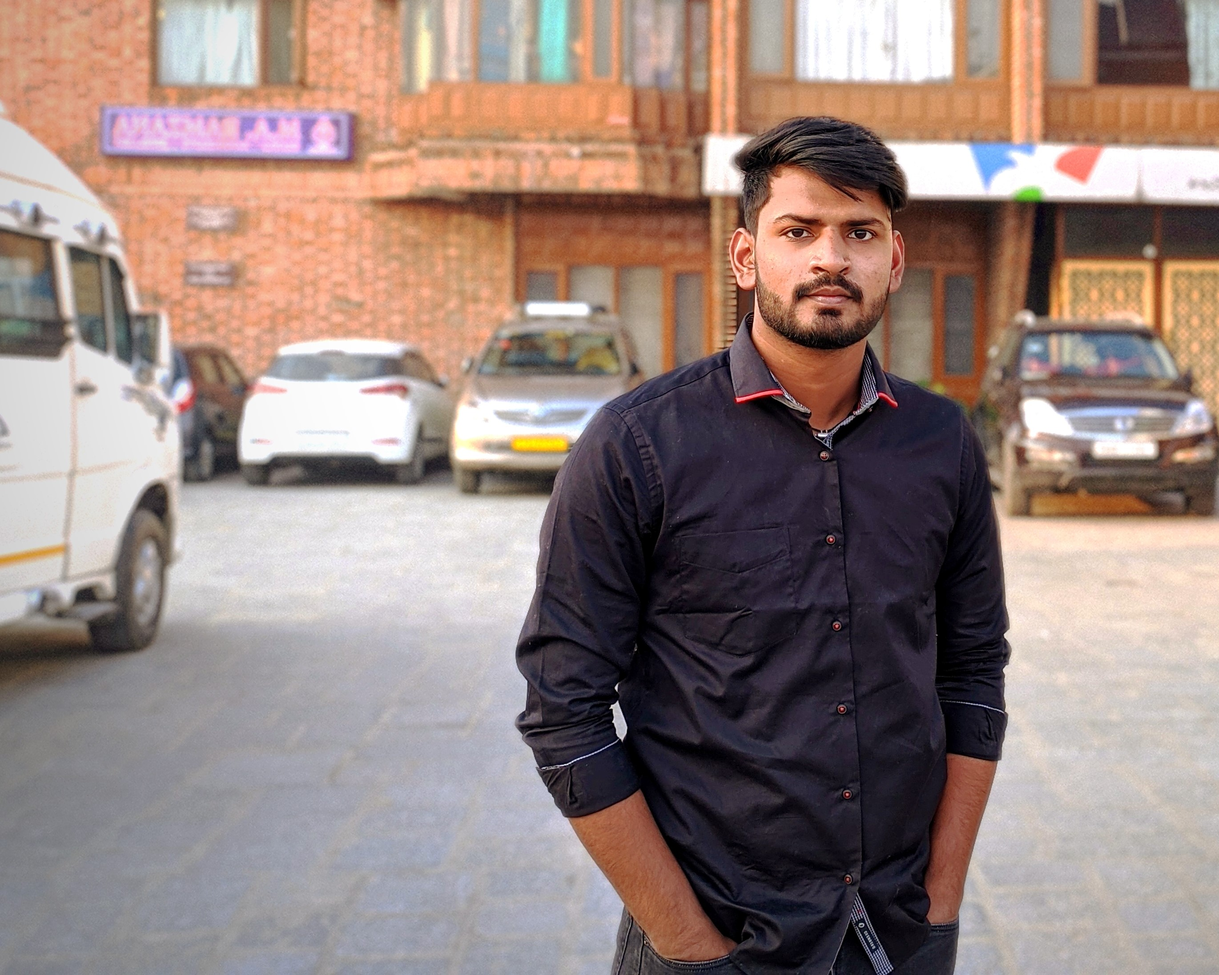
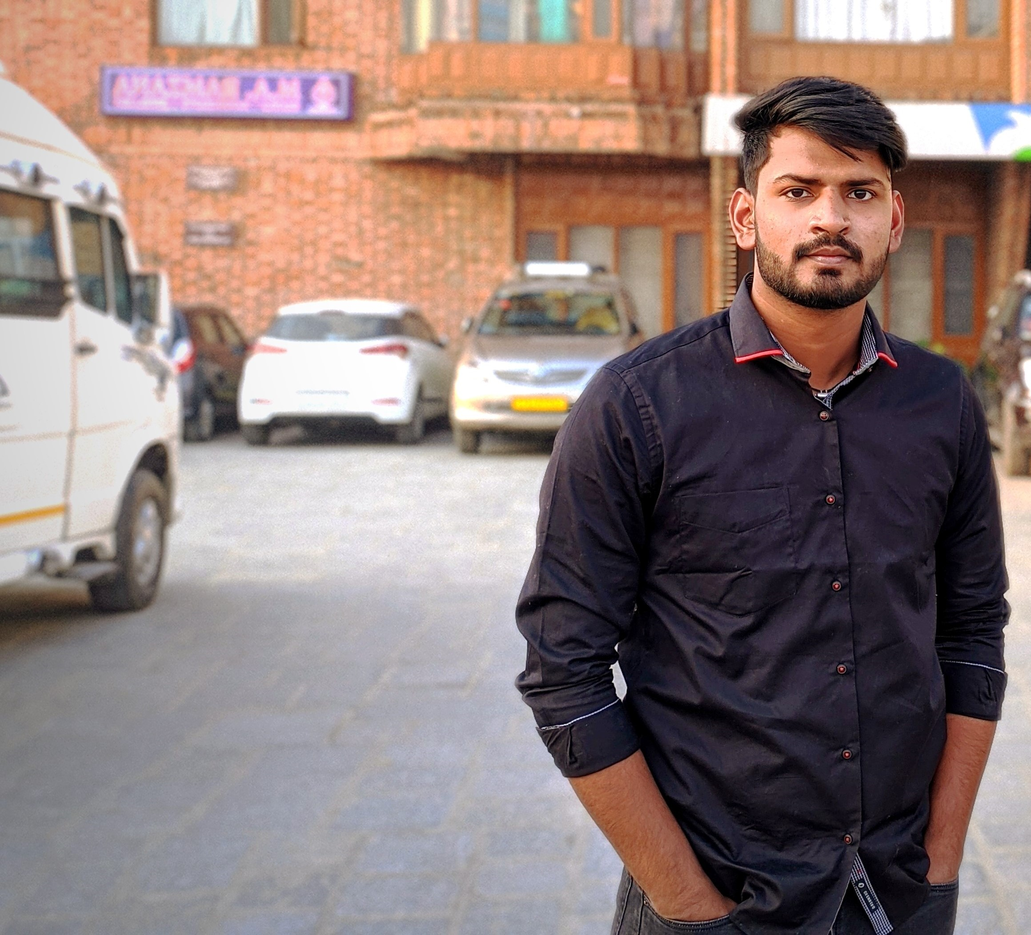
u

diff --git a/assets/css/style.css b/assets/css/style.css
@@ -242,7 +242,7 @@ margin: 10px auto;
 #hero {
   width: 100%;
   height: 100vh;
-  background-image: url("../img/IMG_20231030_003636.jpg") top centre;
+  background-image: url("../img/IMG_20231030_003636.jpg");
   background-size: cover;
 }
 
